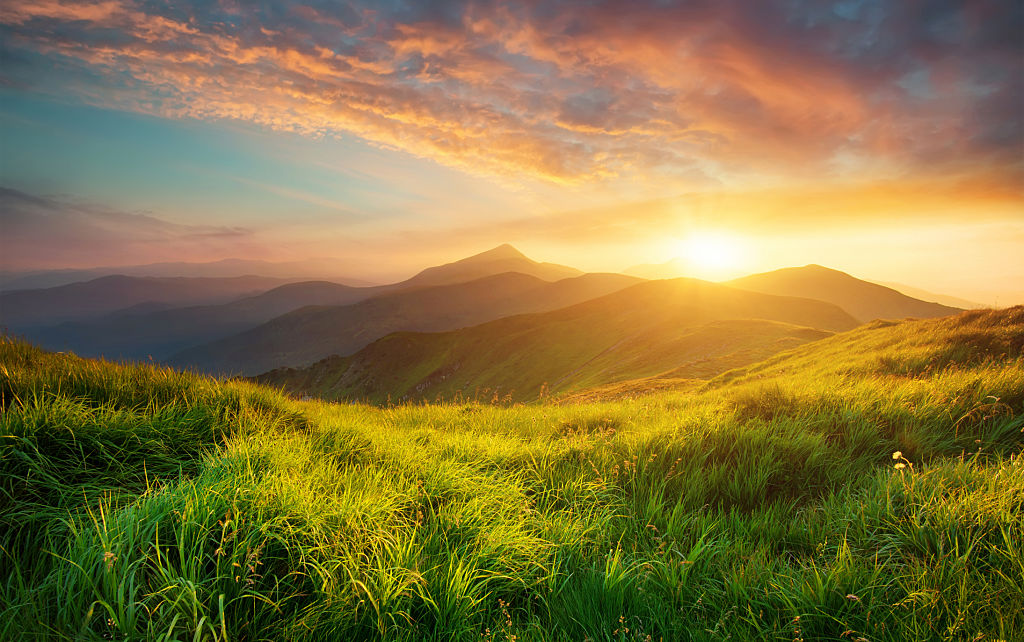
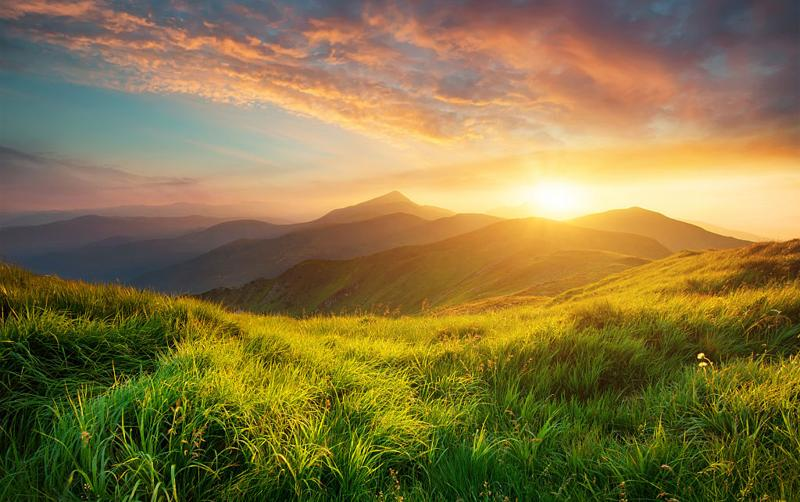
image resizer et ajout d'un champ word_count pour chaque blog

diff --git a/fotoblog/templates/base.html b/fotoblog/templates/base.html
@@ -12,7 +12,8 @@
                 <img class="avatar" src="{{ user.profile_photo.url }}">
                 <p><a href="{% url 'home' %}">Accueil</a></p>
                 <p><a href="{% url 'blog_create' %}">Ecrire un billet</a></p>
-                <p><a href="{% url 'photo_upload' %}">Téléverser une photo</a></p>
+                <p><a href="{% url 'photo_upload' %}">Télécharger une photo</a></p>
+                <p><a href="{% url 'create_multiple_photos' %}">Télécharger plusieurs photos</a></p>
                 <p><a href="{% url 'upload_profile_picture' %}">Changer la photo de profil</a></p>
                 <p><a href="{% url 'password_change' %}">Changer le mot de passe</a></p>
                 <p><a href="{% url 'logout' %}">Se déconnecter</a></p>

diff --git a/fotoblog/blog/templates/blog/edit_blog.html b/fotoblog/blog/templates/blog/edit_blog.html
@@ -1,0 +1,16 @@
+{% extends 'base.html' %}
+{% block content %}
+    <h2>Modifier le billet</h2>
+    <form method="post">
+        {{ edit_form.as_p }}
+        {% csrf_token %}
+        <button type="submit">Sauvegarder</button>
+    </form>
+    <hr>
+    <h3>Supprimer le billet</h3>
+    <form method="post">
+        {{ delete_form }}
+        {% csrf_token %}
+        <button type="submit">Supprimer</button>
+    </form>
+{% endblock content %}

diff --git a/fotoblog/blog/templates/blog/create_multiple_photos.html b/fotoblog/blog/templates/blog/create_multiple_photos.html
@@ -1,0 +1,12 @@
+{% extends 'base.html' %}
+{% block content %}
+    <h2>Télécharger plusierus photos</h2>
+    <form method="post" enctype="multipart/form-data">
+        {{ formset.management_form }}
+        {% csrf_token %}
+        {% for form in formset %}
+            {{ form.as_p }}
+        {% endfor %}
+        <button type="submit" >Publier</button>
+    </form>
+{% endblock content %}

diff --git a/fotoblog/blog/templates/blog/view_blog.html b/fotoblog/blog/templates/blog/view_blog.html
@@ -1,6 +1,7 @@
 {% extends 'base.html' %}
 {% block content %}
     <h2>{{ blog.title }}</h2>
+    <p><a href="{% url 'edit_blog' blog.id %}">Modifier le billet</a></p>
     <img src="{{ blog.photo.image.url }}">
     <p>{{ blog.photo.caption }}</p>
     <p>{{ blog.content }}</p>

diff --git a/fotoblog/blog/views.py b/fotoblog/blog/views.py
@@ -1,5 +1,6 @@
 from django.contrib.auth.decorators import login_required
 from django.shortcuts import redirect, render, get_object_or_404
+from django.forms import formset_factory
 
 from . import forms, models
 
@@ -52,3 +53,40 @@ def blog_and_photo_upload(request):
 def view_blog(request,blog_id):
     blog = get_object_or_404(models.Blog, id=blog_id)
     return render(request, 'blog/view_blog.html', {'blog':blog})
+
+@login_required
+def edit_blog(request, blog_id):
+    blog = get_object_or_404(models.Blog, id=blog_id)
+    edit_form = forms.BlogForm(instance=blog)
+    delete_form = forms.DeleteBlogForm()
+    if request.method == 'POST':
+        if 'edit_blog' in request.POST:
+            edit_form = forms.BlogForm(request.POST, instance=blog)
+            if edit_form.is_valid():
+                edit_form.save()
+                return redirect('home')
+            if 'delete_blog' in request.POST:
+                delete_form = forms.DeleteBlogForm(request.POST)
+                if delete_form.is_valid():
+                    blog.delete()
+                    return redirect('home')
+    context = {
+        'edit_form': edit_form,
+        'delete_form': delete_form,
+    }
+    return render(request, 'blog/edit_blog.html', context=context)
+
+@login_required
+def create_multiple_photos(request):
+    PhotoFormSet = formset_factory(forms.PhotoForm, extra=5)
+    formset = PhotoFormSet()
+    if request.method == 'POST':
+        formset = PhotoFormSet(request.POST, request.FILES)
+        if formset.is_valid():
+            for form in formset:
+                if form.cleaned_data:
+                    photo = form.save(commit=False)
+                    photo.uploader = request.user
+                    photo.save()
+            return redirect('home')
+    return render(request,'blog/create_multiple_photos.html',{'formset':formset})

diff --git a/fotoblog/blog/models.py b/fotoblog/blog/models.py
@@ -1,6 +1,6 @@
 from django.conf import settings
 from django.db import models
-
+from PIL import Image
 
 class Photo(models.Model):
     image = models.ImageField(verbose_name='image')
@@ -8,6 +8,16 @@ class Photo(models.Model):
     uploader = models.ForeignKey(settings.AUTH_USER_MODEL, on_delete=models.CASCADE)
     date_created = models.DateTimeField(auto_now_add=True)
 
+    IMAGE_MAX_SIZE = (800,800)
+
+    def resize_image(self):
+        image = Image.open(self.image)
+        image.thumbnail(self.IMAGE_MAX_SIZE)
+        image.save(self.image.path)
+
+    def save(self, *args, **kwargs):
+        super().save(*args, **kwargs)
+        self.resize_image()
 
 class Blog(models.Model):
     photo = models.ForeignKey(Photo, null=True, on_delete=models.SET_NULL, blank=True)
@@ -16,3 +26,13 @@ class Blog(models.Model):
     author = models.ForeignKey(settings.AUTH_USER_MODEL, on_delete=models.CASCADE)
     date_created = models.DateTimeField(auto_now_add=True)
     starred = models.BooleanField(default=False)
+
+    word_count = models.IntegerField(null=True)
+
+    def _get_word_count(self):
+        for char in self.content:
+            self.word_count+=1
+
+    def save(self, *args, **kwargs):
+        super().save(*args, **kwargs)
+        self._get_word_count()

diff --git a/fotoblog/fotoblog/urls.py b/fotoblog/fotoblog/urls.py
@@ -33,6 +33,8 @@ urlpatterns = [
     path('photo/upload/', blog.views.photo_upload, name='photo_upload'),
     path('blog/create', blog.views.blog_and_photo_upload, name='blog_create'),
     path('blog/<int:blog_id>', blog.views.view_blog, name='view_blog'),
+    path('blog/<int:blog_id>/edit', blog.views.edit_blog, name='edit_blog'),
+    path('photo/upload-multiple/', blog.views.create_multiple_photos, name='create_multiple_photos'),
 ]
 
 if settings.DEBUG:

diff --git a/fotoblog/blog/migrations/0003_blog_word_count.py b/fotoblog/blog/migrations/0003_blog_word_count.py
@@ -1,0 +1,18 @@
+# Generated by Django 5.0.2 on 2024-03-04 15:25
+
+from django.db import migrations, models
+
+
+class Migration(migrations.Migration):
+
+    dependencies = [
+        ('blog', '0002_alter_blog_content_alter_blog_title_and_more'),
+    ]
+
+    operations = [
+        migrations.AddField(
+            model_name='blog',
+            name='word_count',
+            field=models.IntegerField(null=True),
+        ),
+    ]

diff --git a/fotoblog/blog/forms.py b/fotoblog/blog/forms.py
@@ -12,3 +12,6 @@ class BlogForm(forms.ModelForm):
     class Meta:
         model = models.Blog
         fields = ['title','content']
+
+class DeleteBlogForm(forms.Form):
+    delete_blog = forms.BooleanField(widget=forms.HiddenInput, initial=True)
